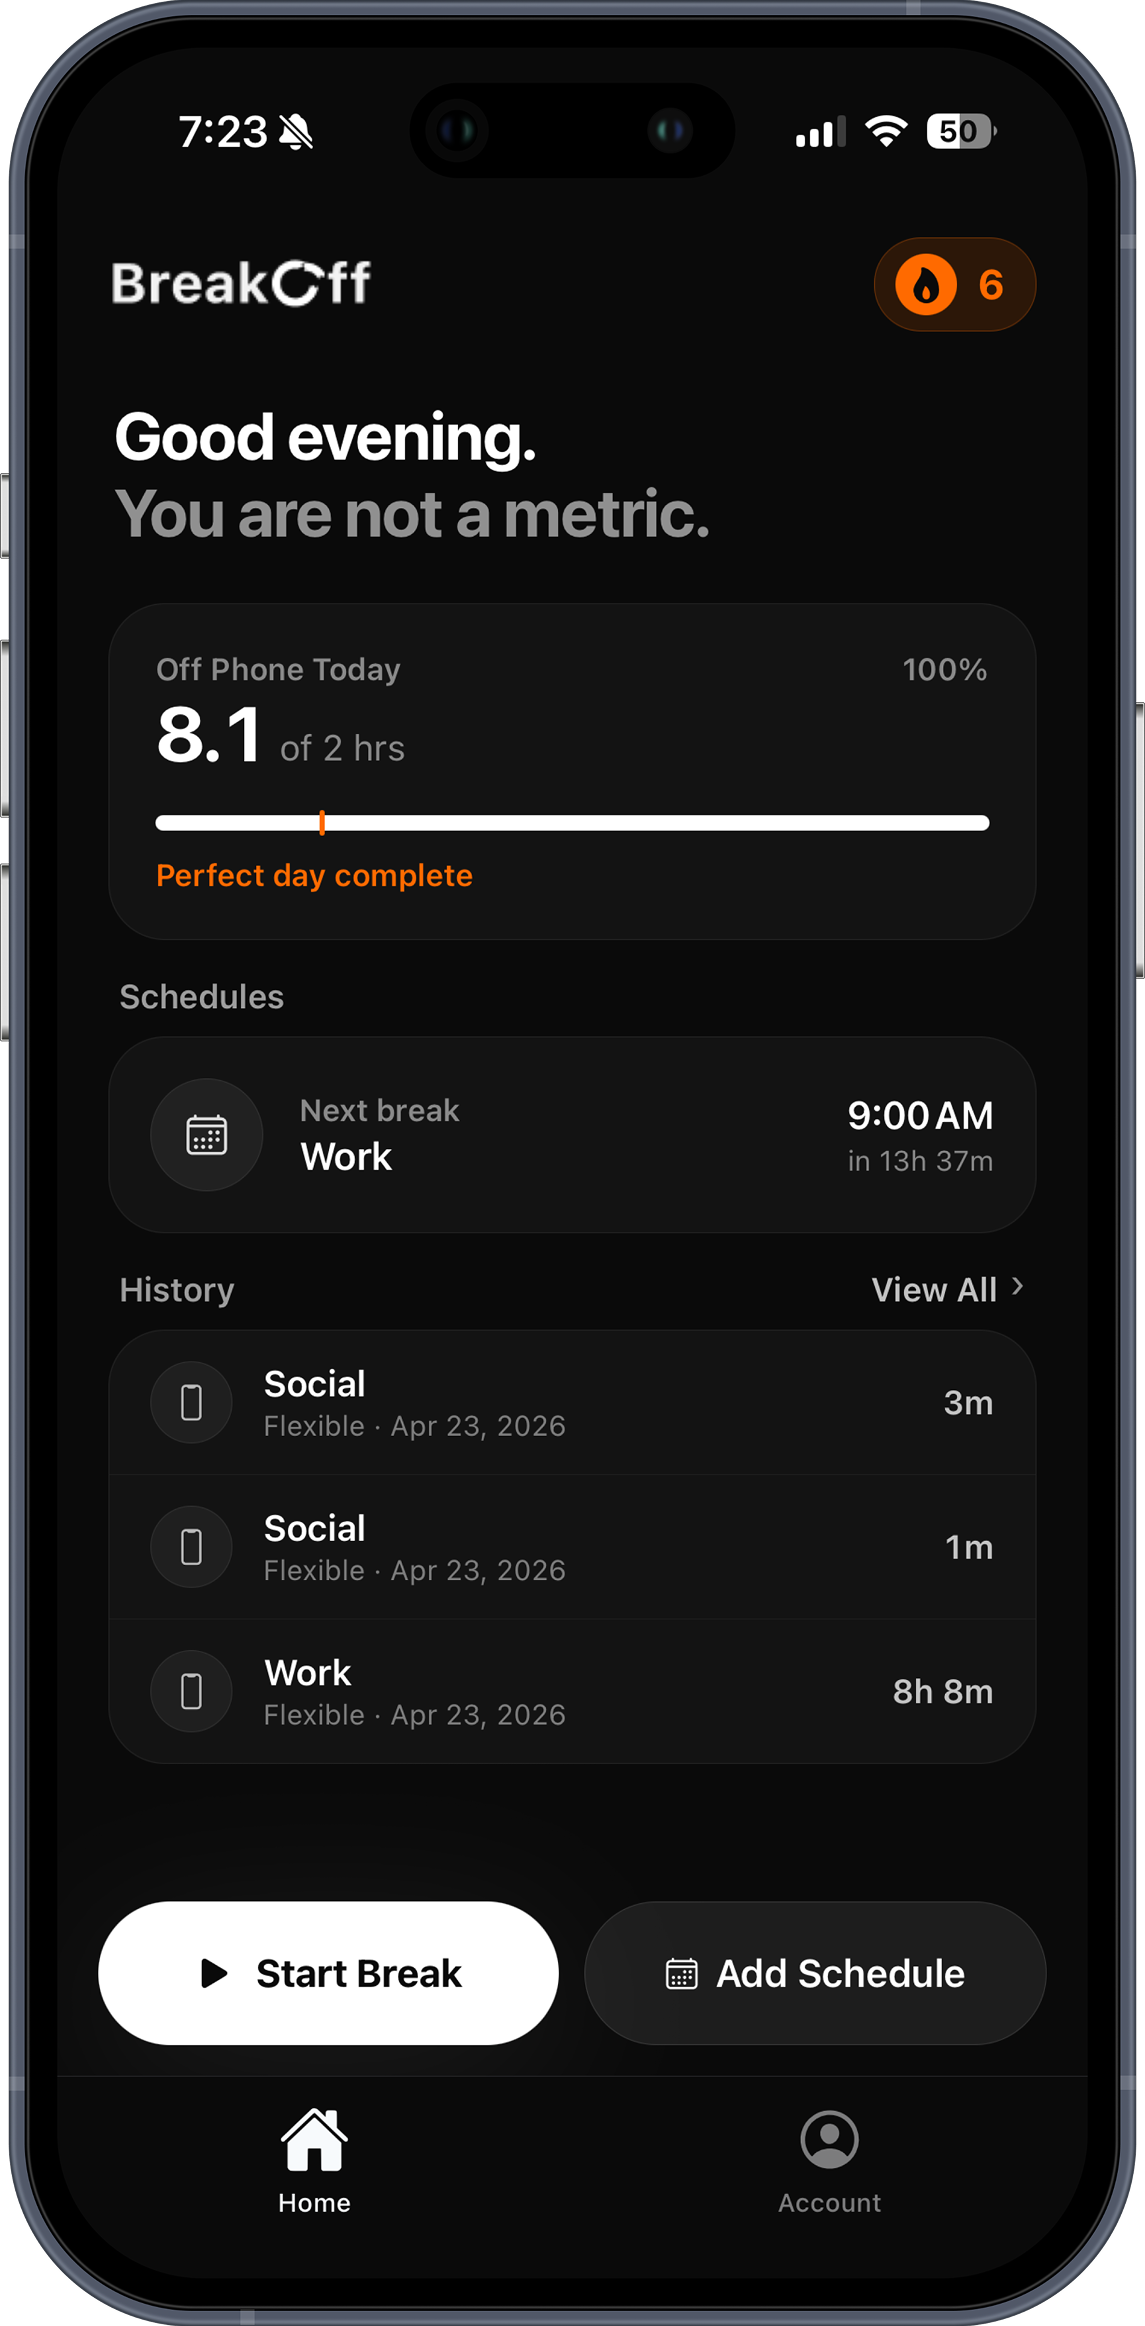
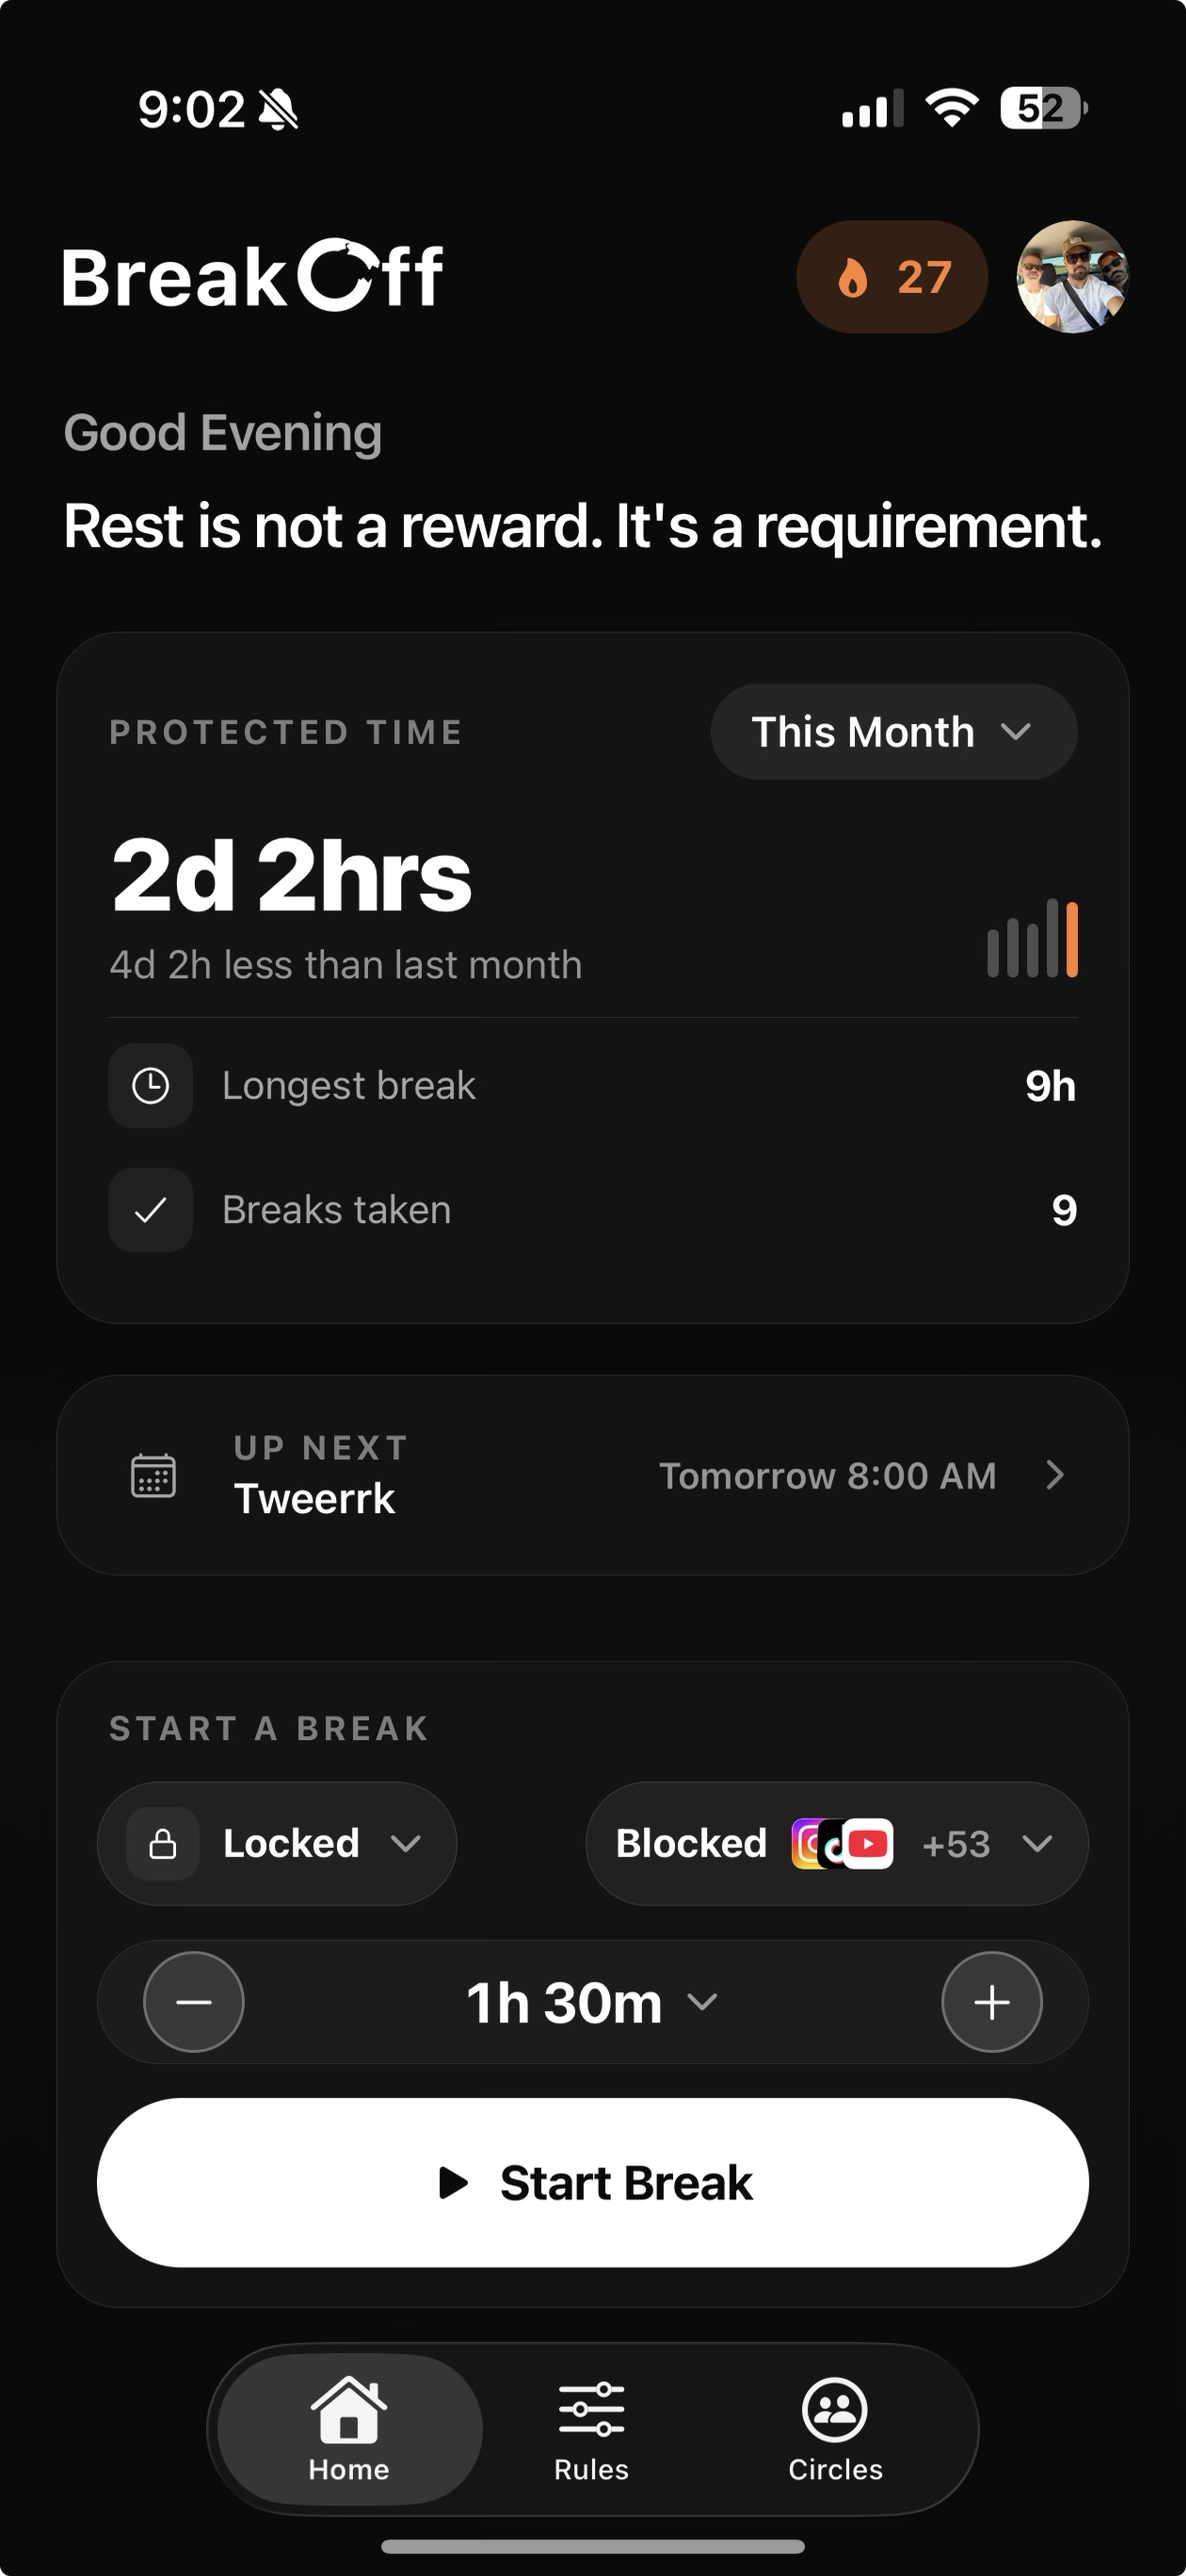
New BreakOff screenshot; prototype matches current app
Claude-Session: https://claude.ai/code/session_014tk7wyu6wJeHSmbdTDUWVh

diff --git a/src/components/ui/LivePrototype.tsx b/src/components/ui/LivePrototype.tsx
@@ -1,26 +1,19 @@
 "use client";
 
 import { AnimatePresence, motion } from "framer-motion";
-import { BatteryFull, CalendarDays, Flame, Home, Play, Plus, Signal, Square, User, Wifi } from "lucide-react";
-import { useEffect, useMemo, useState } from "react";
+import { useEffect, useState } from "react";
+import {
+  BatteryFull, CalendarDays, Check, ChevronDown, ChevronRight, Clock, Flame, Home,
+  Lock, Minus, Play, Plus, Signal, SlidersHorizontal, Square, Users, Wifi,
+} from "lucide-react";
 
-// A tappable mini version of BreakOff running inside the hero phone.
-// Fake data, real interactions: start and end a break, add a schedule.
-// Proves "I build apps" better than a screenshot can.
+// A tappable mini BreakOff running inside the hero phone. Mirrors the
+// current app: protected time, up next, start a break with a duration.
+// Fake data, real interactions.
 
 const ORANGE = "#ff983b";
-
-type Schedule = { id: number; name: string; time: string };
-
-const STARTERS: Schedule[] = [
-  { id: 1, name: "Work", time: "9:00 AM" },
-  { id: 2, name: "Dinner", time: "6:30 PM" },
-];
-const EXTRA = [
-  { name: "Gym", time: "7:00 AM" },
-  { name: "Reading", time: "9:00 PM" },
-  { name: "Family", time: "5:00 PM" },
-];
+const CARD = "#141414";
+const CHIP = "#1e1e1e";
 
 function fmt(s: number) {
   const m = Math.floor(s / 60);
@@ -31,8 +24,8 @@ function fmt(s: number) {
 export default function LivePrototype() {
   const [onBreak, setOnBreak] = useState(false);
   const [seconds, setSeconds] = useState(0);
-  const [minutesToday, setMinutesToday] = useState(94);
-  const [schedules, setSchedules] = useState<Schedule[]>(STARTERS);
+  const [duration, setDuration] = useState(90); // minutes
+  const [breaks, setBreaks] = useState(9);
   const [toast, setToast] = useState<string | null>(null);
 
   useEffect(() => {
@@ -43,133 +36,145 @@ export default function LivePrototype() {
 
   useEffect(() => {
     if (!toast) return;
-    const t = setTimeout(() => setToast(null), 1600);
+    const t = setTimeout(() => setToast(null), 1500);
     return () => clearTimeout(t);
   }, [toast]);
 
-  const goal = 120;
-  const pct = useMemo(() => Math.min(100, Math.round(((minutesToday + seconds / 60) / goal) * 100)), [minutesToday, seconds]);
   const hour = new Date().getHours();
-  const greeting = hour < 12 ? "Good morning." : hour < 18 ? "Good afternoon." : "Good evening.";
+  const greeting = hour < 12 ? "Good Morning" : hour < 18 ? "Good Afternoon" : "Good Evening";
+  const durationLabel = `${Math.floor(duration / 60)}h ${duration % 60 ? `${duration % 60}m` : ""}`.trim();
 
   function toggleBreak() {
     if (onBreak) {
-      setMinutesToday((m) => m + Math.max(1, Math.round(seconds / 60)));
-      setSeconds(0);
       setOnBreak(false);
+      setSeconds(0);
+      setBreaks((b) => b + 1);
       setToast("Break saved");
     } else {
       setOnBreak(true);
+      setToast("Apps locked");
     }
-  }
-
-  function addSchedule() {
-    const next = EXTRA[schedules.length - STARTERS.length];
-    if (!next) {
-      setToast("That's plenty for a demo");
-      return;
-    }
-    setSchedules((s) => [...s, { id: Date.now(), ...next }]);
-    setToast(`${next.name} added`);
   }
 
   return (
-    <div className="absolute inset-0 bg-[#0b0b0b] text-white flex flex-col select-none overflow-hidden" style={{ fontSize: 11 }}>
+    <div className="absolute inset-0 bg-[#0a0a0a] text-white flex flex-col select-none overflow-hidden" style={{ fontSize: 11 }}>
       {/* Status bar */}
-      <div className="flex items-center justify-between px-5 pt-3 text-[10px] font-semibold">
+      <div className="flex items-center justify-between px-5 pt-3 text-[10px] font-semibold shrink-0">
         <span>9:41</span>
         <span className="flex items-center gap-1"><Signal size={10} /><Wifi size={10} /><BatteryFull size={12} /></span>
       </div>
 
       {/* Header */}
-      <div className="flex items-center justify-between px-4 pt-3">
-        <span className="font-bold text-[15px] tracking-tight">
+      <div className="flex items-center justify-between px-4 pt-3 shrink-0">
+        <span className="font-bold text-[16px] tracking-tight">
           Break<span style={{ color: ORANGE }}>O</span>ff
         </span>
         <span className="rounded-full px-2 py-0.5 text-[10px] font-bold flex items-center gap-1" style={{ background: "#3a2312", color: ORANGE }}>
-          <Flame size={11} fill={ORANGE} /> 6
+          <Flame size={11} fill={ORANGE} /> 27
         </span>
       </div>
 
-      <div className="px-4 pt-3">
-        <p className="font-bold text-[14px] leading-tight">{greeting}</p>
-        <p className="text-neutral-400 text-[12px]">You are not a metric.</p>
+      <div className="px-4 pt-1.5 shrink-0">
+        <p className="text-neutral-400 text-[9px]">{greeting}</p>
+        <p className="font-semibold text-[11px] leading-tight">Rest is not a reward. It&apos;s a requirement.</p>
       </div>
 
-      {/* Stat card */}
-      <div className="mx-4 mt-3 rounded-xl bg-[#171717] p-3">
-        <div className="flex items-center justify-between text-[10px] text-neutral-400">
-          <span>{onBreak ? "On a break" : "Off Phone Today"}</span>
-          <span>{pct}%</span>
-        </div>
-        <div className="mt-1 flex items-baseline gap-1">
-          <span className="font-bold text-[20px] tabular-nums">
-            {onBreak ? fmt(seconds) : `${(minutesToday / 60).toFixed(1)}`}
+      {/* Protected time */}
+      <div className="mx-4 mt-2 rounded-2xl p-2.5 shrink-0" style={{ background: CARD }}>
+        <div className="flex items-center justify-between">
+          <span className="text-[9px] tracking-[0.15em] text-neutral-400 uppercase">Protected time</span>
+          <span className="rounded-full px-2 py-0.5 text-[9px] flex items-center gap-1" style={{ background: CHIP }}>
+            This month <ChevronDown size={9} />
           </span>
-          <span className="text-neutral-400 text-[10px]">{onBreak ? "elapsed" : "of 2 hrs"}</span>
         </div>
-        <div className="mt-2 h-1 rounded-full bg-neutral-700 overflow-hidden">
-          <motion.div className="h-full" style={{ background: "#fff" }} animate={{ width: `${pct}%` }} transition={{ duration: 0.4 }} />
-        </div>
-        <p className="mt-1.5 text-[10px] font-semibold" style={{ color: ORANGE }}>
-          {pct >= 100 ? "Perfect day complete" : `${goal - Math.round(minutesToday + seconds / 60)} min to go`}
-        </p>
-      </div>
-
-      {/* Schedules */}
-      <div className="px-4 pt-3 flex-1 min-h-0 flex flex-col">
-        <p className="text-[10px] text-neutral-400 mb-1.5 shrink-0">Schedules</p>
-        <div className="space-y-1.5 overflow-y-auto min-h-0 flex-1 pb-1">
-          <AnimatePresence initial={false}>
-            {schedules.map((s) => (
-              <motion.div
-                key={s.id}
-                initial={{ opacity: 0, y: 8 }}
-                animate={{ opacity: 1, y: 0 }}
-                exit={{ opacity: 0 }}
-                className="flex items-center justify-between rounded-lg bg-[#171717] px-3 py-2"
-              >
-                <div className="flex items-center gap-2">
-                  <span className="w-5 h-5 rounded-md bg-neutral-800 flex items-center justify-center"><CalendarDays size={11} /></span>
-                  <div className="leading-tight">
-                    <p className="text-[9px] text-neutral-400">Next break</p>
-                    <p className="text-[11px] font-semibold">{s.name}</p>
-                  </div>
-                </div>
-                <span className="text-[11px] font-semibold">{s.time}</span>
-              </motion.div>
+        <div className="flex items-end justify-between mt-1.5">
+          <div>
+            <p className="font-bold text-[20px] leading-none tabular-nums">
+              {onBreak ? fmt(seconds) : "2d 2hrs"}
+            </p>
+            <p className="text-neutral-400 text-[9px] mt-1">{onBreak ? "on this break" : "4d 2h less than last month"}</p>
+          </div>
+          <div className="flex items-end gap-[3px] h-6">
+            {[10, 14, 18, 20, 24].map((h, i) => (
+              <motion.span
+                key={i}
+                className="w-[4px] rounded-sm"
+                style={{ background: i === 4 ? ORANGE : "#3a3a3a", height: h }}
+                animate={{ height: onBreak && i === 4 ? 28 : h }}
+              />
             ))}
-          </AnimatePresence>
+          </div>
+        </div>
+        <div className="border-t border-neutral-800 mt-2 pt-1.5 space-y-1">
+          <div className="flex items-center justify-between text-[10px]">
+            <span className="flex items-center gap-2 text-neutral-300">
+              <span className="w-5 h-5 rounded-md flex items-center justify-center" style={{ background: CHIP }}><Clock size={10} /></span>
+              Longest break
+            </span>
+            <span className="font-semibold">9h</span>
+          </div>
+          <div className="flex items-center justify-between text-[10px]">
+            <span className="flex items-center gap-2 text-neutral-300">
+              <span className="w-5 h-5 rounded-md flex items-center justify-center" style={{ background: CHIP }}><Check size={10} /></span>
+              Breaks taken
+            </span>
+            <motion.span key={breaks} initial={{ scale: 1.3, color: ORANGE }} animate={{ scale: 1, color: "#fff" }} className="font-semibold">
+              {breaks}
+            </motion.span>
+          </div>
         </div>
       </div>
 
-      {/* Actions */}
-      <div className="px-4 pt-2 pb-2 flex gap-2 shrink-0 bg-[#0b0b0b]">
+      {/* Up next */}
+      <div className="mx-4 mt-1.5 rounded-2xl px-3 py-2 flex items-center justify-between shrink-0" style={{ background: CARD }}>
+        <span className="flex items-center gap-2">
+          <CalendarDays size={12} className="text-neutral-400" />
+          <span className="leading-tight">
+            <span className="block text-[8px] tracking-[0.15em] text-neutral-400 uppercase">Up next</span>
+            <span className="block text-[11px] font-semibold">Deep work</span>
+          </span>
+        </span>
+        <span className="flex items-center gap-1 text-[10px] text-neutral-300">Tomorrow 8:00 AM <ChevronRight size={10} /></span>
+      </div>
+
+      {/* Start a break */}
+      <div className="mx-4 mt-1.5 rounded-2xl p-2.5 shrink-0" style={{ background: CARD }}>
+        <p className="text-[9px] tracking-[0.15em] text-neutral-400 uppercase">Start a break</p>
+        <div className="flex gap-2 mt-1.5">
+          <span className="rounded-full px-2 py-1 text-[10px] font-semibold flex items-center gap-1" style={{ background: CHIP }}>
+            <Lock size={9} /> Locked <ChevronDown size={9} />
+          </span>
+          <span className="rounded-full px-2 py-1 text-[10px] font-semibold flex items-center gap-1 flex-1 justify-center" style={{ background: CHIP }}>
+            Blocked <span className="text-neutral-400 font-normal">+53</span> <ChevronDown size={9} />
+          </span>
+        </div>
+        <div className="flex items-center justify-between rounded-full mt-1.5 px-1 py-0.5" style={{ background: CHIP }}>
+          <button onClick={() => setDuration((d) => Math.max(15, d - 15))} className="w-6 h-6 rounded-full border border-neutral-600 flex items-center justify-center" aria-label="Less time">
+            <Minus size={10} />
+          </button>
+          <span className="font-bold text-[12px] flex items-center gap-1">{durationLabel} <ChevronDown size={10} /></span>
+          <button onClick={() => setDuration((d) => Math.min(480, d + 15))} className="w-6 h-6 rounded-full border border-neutral-600 flex items-center justify-center" aria-label="More time">
+            <Plus size={10} />
+          </button>
+        </div>
         <motion.button
-          whileTap={{ scale: 0.96 }}
+          whileTap={{ scale: 0.97 }}
           onClick={toggleBreak}
-          className="flex-1 rounded-full py-2 text-[11px] font-bold flex items-center justify-center gap-1.5"
+          className="w-full rounded-full py-1.5 mt-1.5 text-[11px] font-bold flex items-center justify-center gap-1.5"
           style={onBreak ? { background: ORANGE, color: "#111" } : { background: "#fff", color: "#111" }}
         >
           {onBreak ? <Square size={10} fill="#111" /> : <Play size={10} fill="#111" />}
           {onBreak ? "End Break" : "Start Break"}
         </motion.button>
-        <motion.button
-          whileTap={{ scale: 0.96 }}
-          onClick={addSchedule}
-          className="flex-1 rounded-full py-2 text-[11px] font-semibold bg-[#1f1f1f] flex items-center justify-center gap-1"
-        >
-          <Plus size={11} /> Add Schedule
-        </motion.button>
       </div>
 
       {/* Tab bar */}
-      <div className="flex justify-around border-t border-neutral-800 px-4 py-2 pb-4 text-[9px] text-neutral-400 shrink-0">
-        <span className="text-white flex flex-col items-center gap-0.5"><Home size={14} />Home</span>
-        <span className="flex flex-col items-center gap-0.5"><User size={14} />Account</span>
+      <div className="mt-auto mx-4 mb-2 rounded-full px-3 py-1 flex justify-around text-[8px] text-neutral-400 shrink-0" style={{ background: CARD }}>
+        <span className="text-white flex flex-col items-center gap-0.5 rounded-full px-3 py-1" style={{ background: CHIP }}><Home size={12} />Home</span>
+        <span className="flex flex-col items-center gap-0.5 px-3 py-1"><SlidersHorizontal size={12} />Rules</span>
+        <span className="flex flex-col items-center gap-0.5 px-3 py-1"><Users size={12} />Circles</span>
       </div>
 
-      {/* Toast */}
       <AnimatePresence>
         {toast && (
           <motion.div
